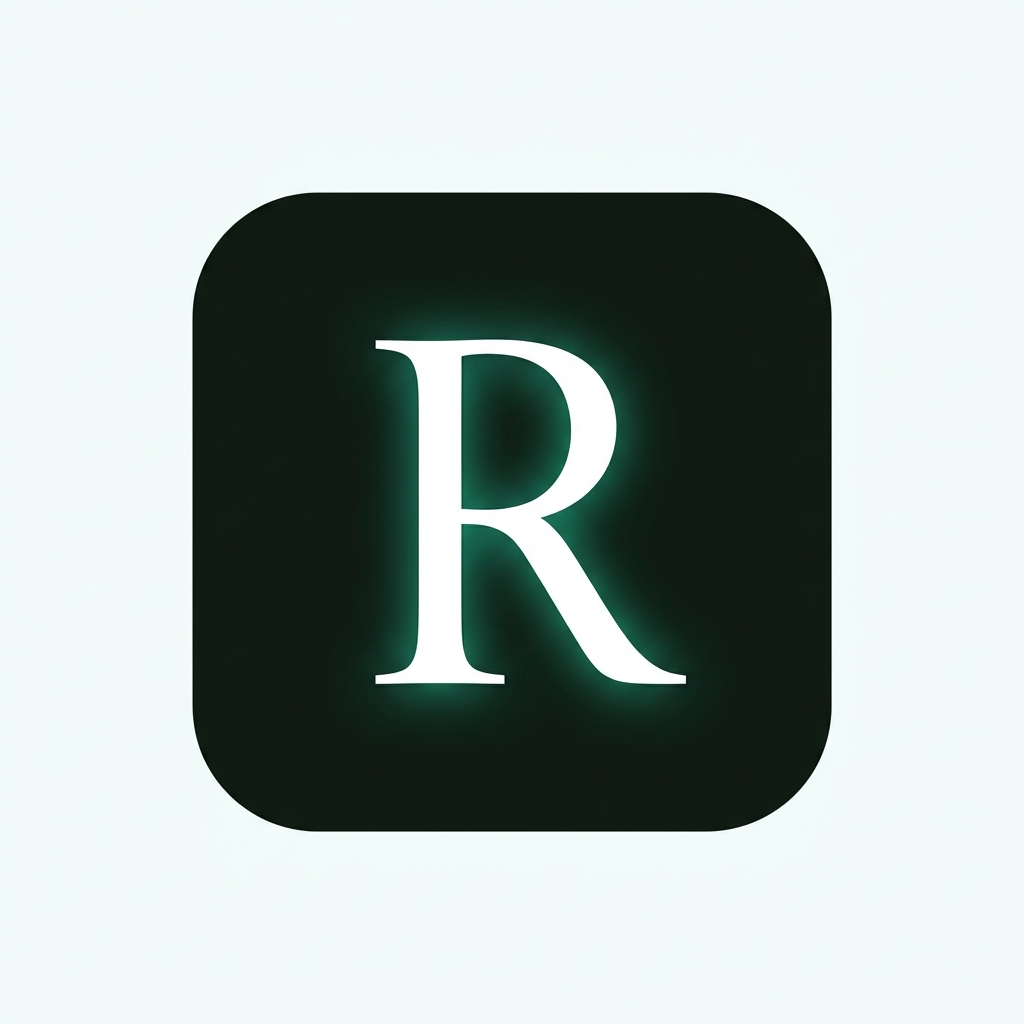
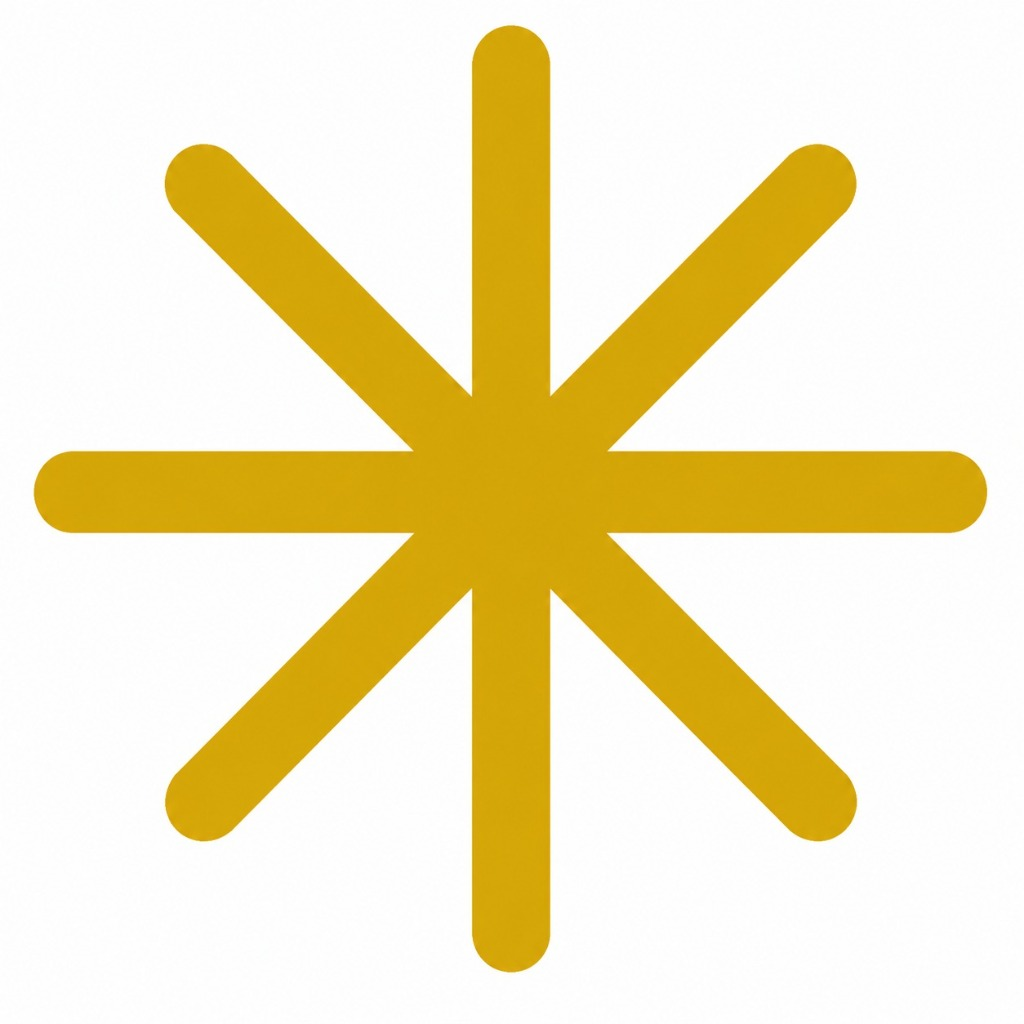
chore: use relative paths in PWA config and assets for subdirectory compatibility

diff --git a/index.html b/index.html
@@ -25,14 +25,14 @@ window.addEventListener('appinstalled', function() {
 </script>
 
 <!-- ─── PWA ───────────────────────────────────────────────── -->
-<link rel="manifest" href="/manifest.json">
+<link rel="manifest" href="manifest.json">
 <meta name="theme-color" content="#0D7C66">
 <meta name="mobile-web-app-capable" content="yes">
 <meta name="apple-mobile-web-app-capable" content="yes">
 <meta name="apple-mobile-web-app-status-bar-style" content="black-translucent">
 <meta name="apple-mobile-web-app-title" content="Rajav Admin">
-<link rel="apple-touch-icon" href="/icon-512.png">
-<link rel="icon" type="image/png" href="/icon-512.png">
+<link rel="apple-touch-icon" href="icon-512.png">
+<link rel="icon" type="image/png" href="icon-512.png">
 
 <!-- Firebase SDKs (CDN - no build step needed) -->
 <script src="https://www.gstatic.com/firebasejs/10.12.0/firebase-app-compat.js"></script>
@@ -2654,7 +2654,7 @@ function syncAllToGSheet() {
 // ── Service Worker ────────────────────────────────────────────
 if ('serviceWorker' in navigator) {
   window.addEventListener('load', () => {
-    navigator.serviceWorker.register('/sw.js')
+    navigator.serviceWorker.register('sw.js')
       .then(reg => console.log('[PWA] SW registered:', reg.scope))
       .catch(err => console.warn('[PWA] SW failed:', err));
   });